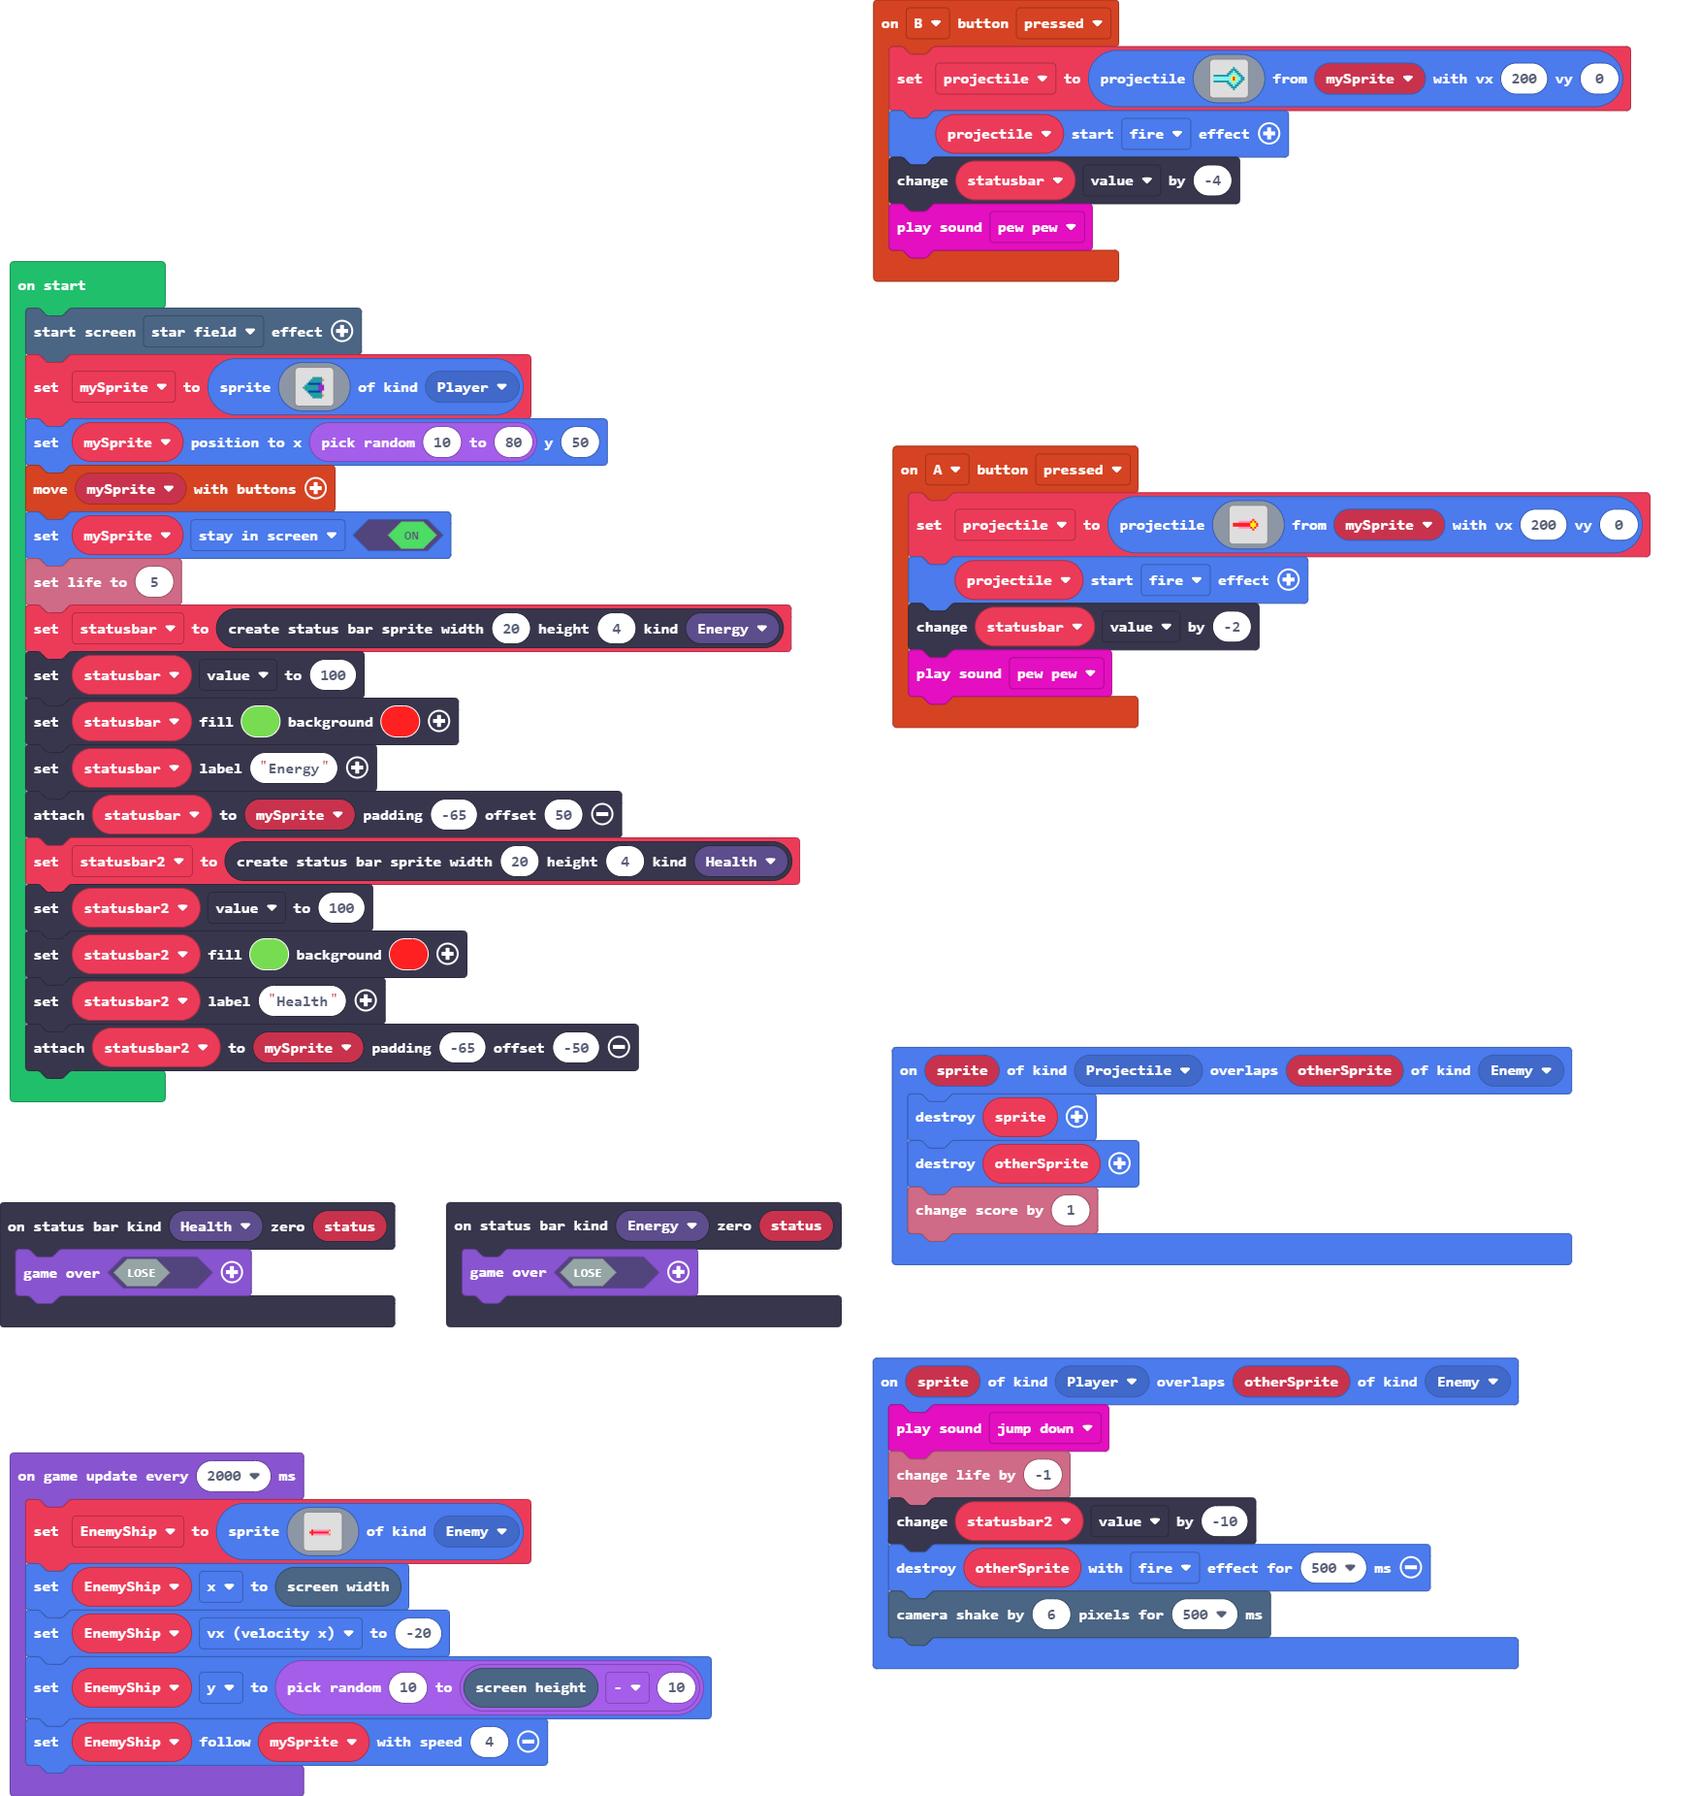
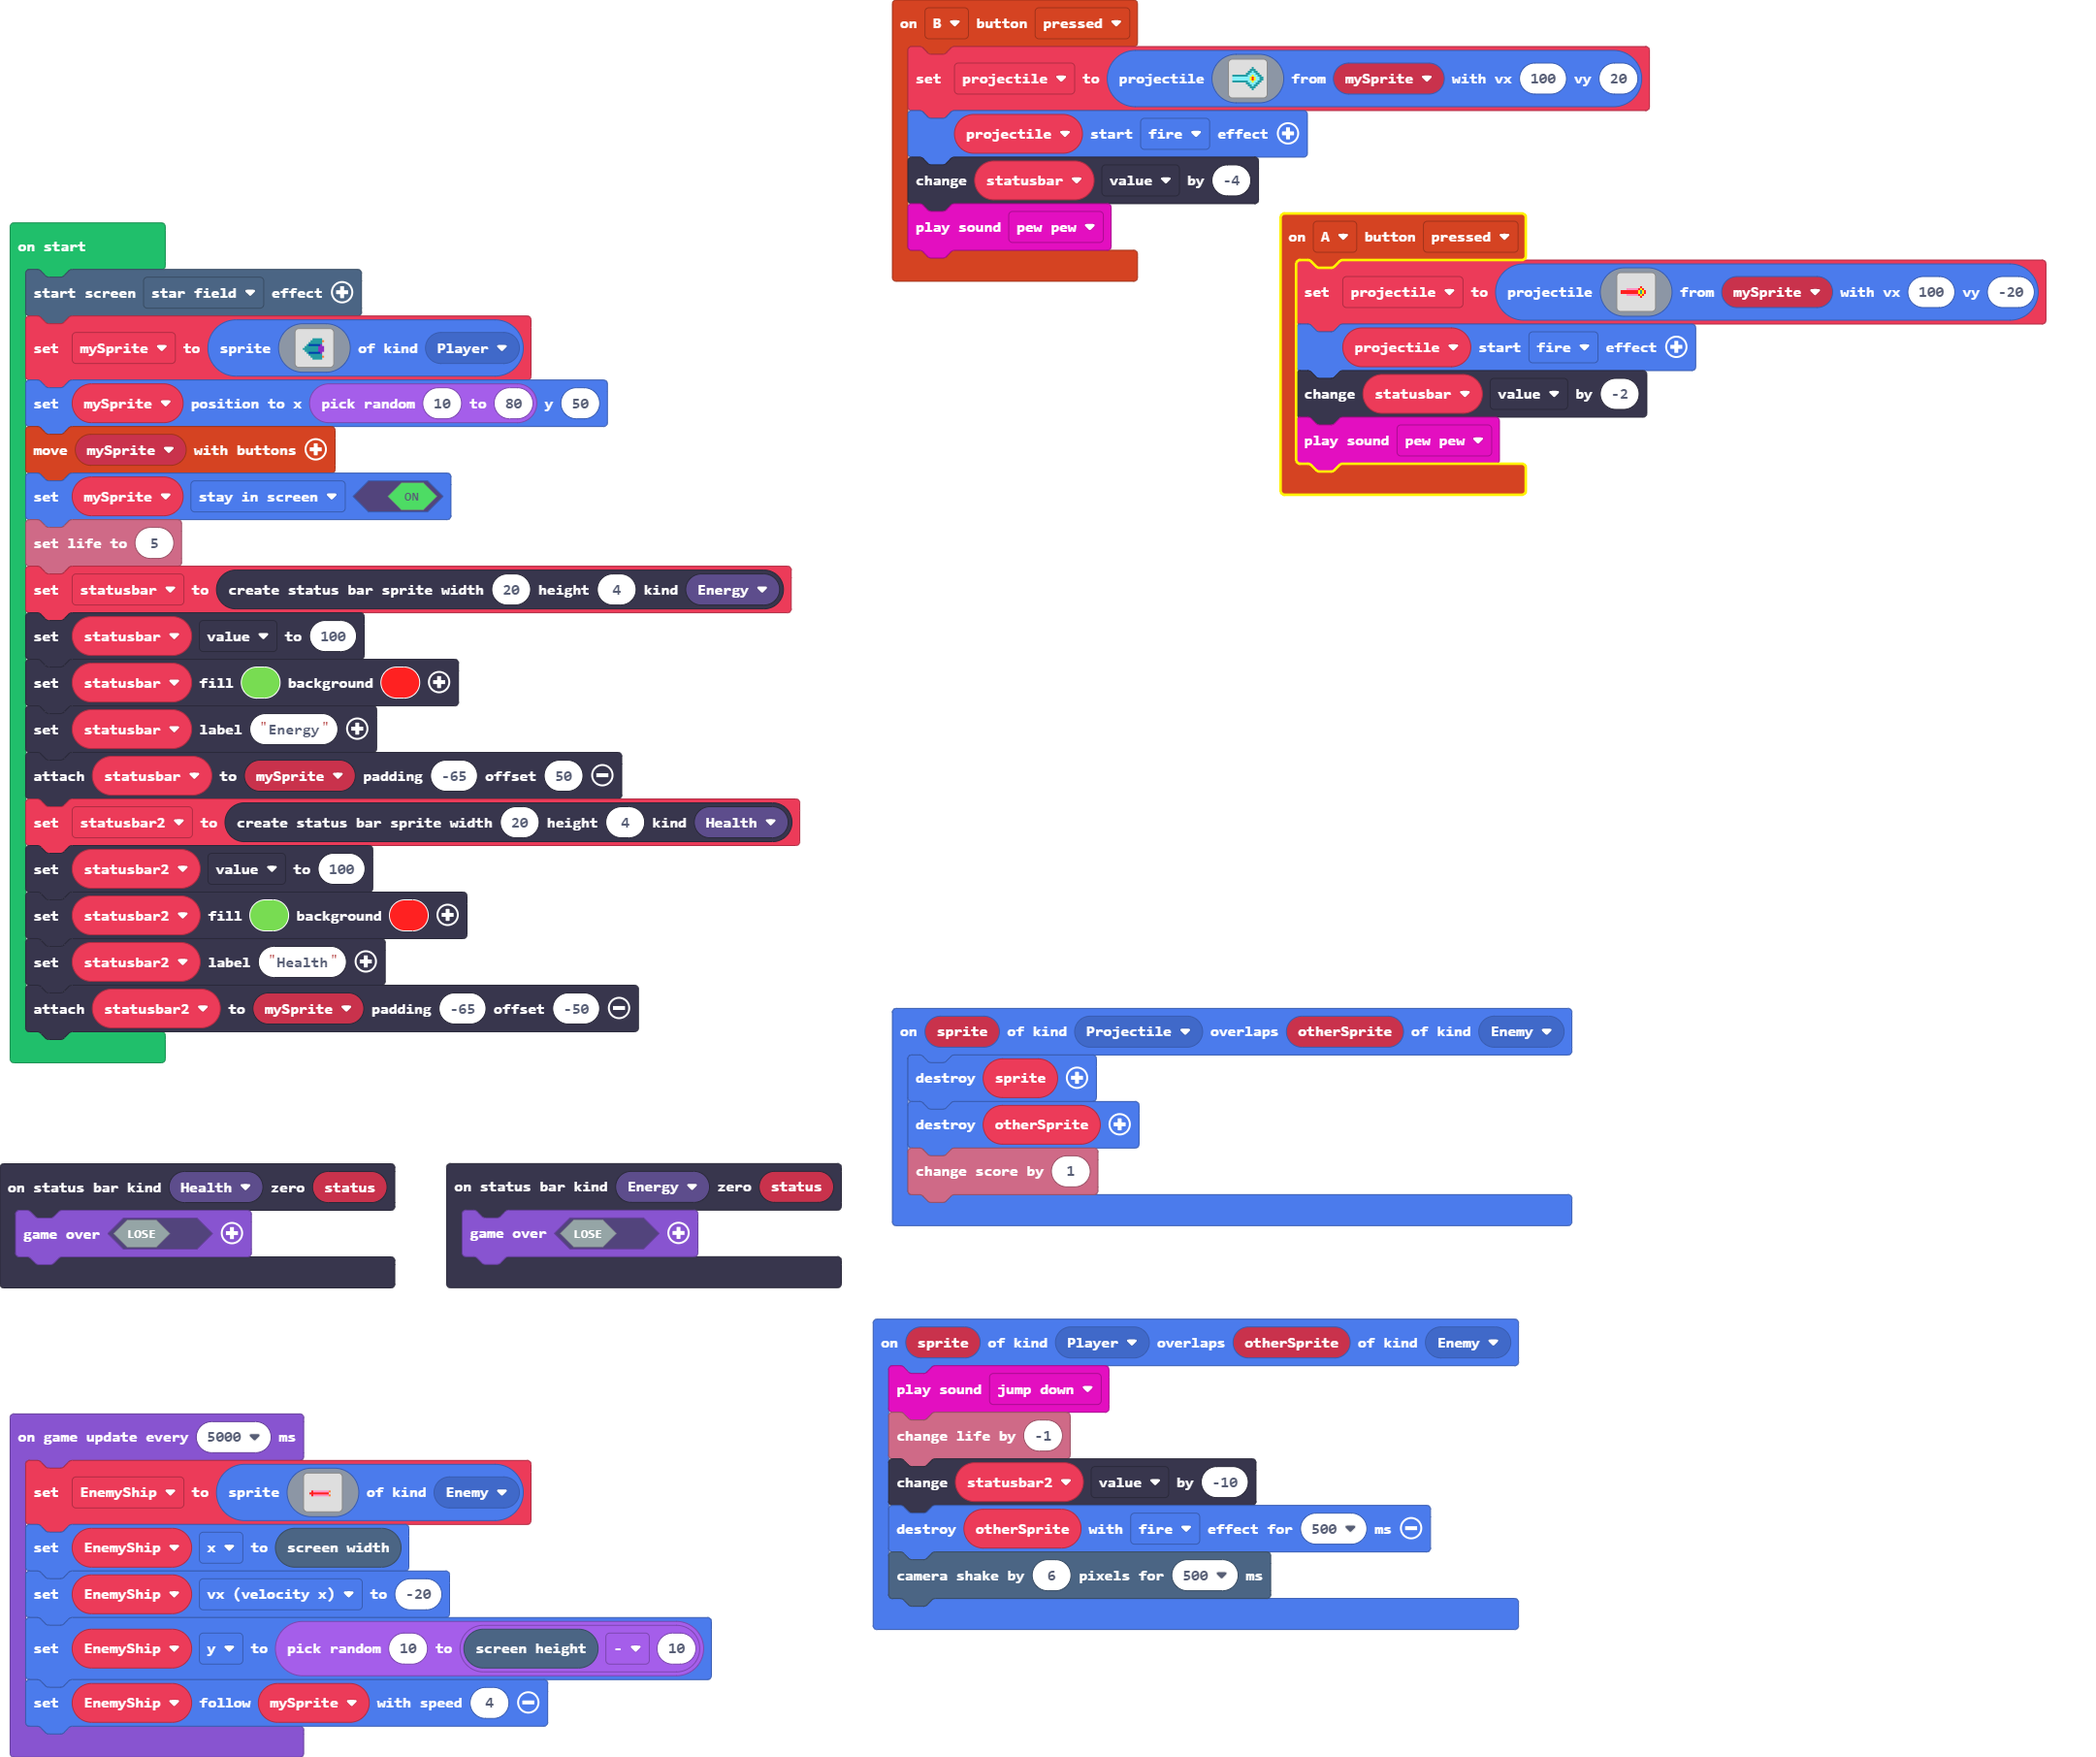
Update main.blocks, main.ts

diff --git a/main.ts b/main.ts
@@ -16,7 +16,7 @@ controller.B.onEvent(ControllerButtonEvent.Pressed, function () {
         . . . . . . . . . . 6 . . . . . 
         . . . . . . . . . . . . . . . . 
         . . . . . . . . . . . . . . . . 
-        `, mySprite, 200, 0)
+        `, mySprite, 100, 20)
     projectile.startEffect(effects.fire)
     statusbar.value += -4
     music.pewPew.play()
@@ -30,8 +30,8 @@ controller.A.onEvent(ControllerButtonEvent.Pressed, function () {
         . . . . . . . . . . . . . . . . 
         . . . . . . . . . . 2 . . . . . 
         . . . 3 3 3 3 3 3 2 5 2 . . . . 
-        2 2 2 2 2 2 2 2 2 5 5 5 2 . . . 
-        2 2 2 2 2 2 2 2 2 5 5 5 2 . . . 
+        2 2 2 2 2 2 2 2 2 5 6 5 2 . . . 
+        2 2 2 2 2 2 2 2 2 5 6 5 2 . . . 
         . . . 3 3 3 3 3 3 2 5 2 . . . . 
         . . . . . . . . . . 2 . . . . . 
         . . . . . . . . . . . . . . . . 
@@ -39,7 +39,7 @@ controller.A.onEvent(ControllerButtonEvent.Pressed, function () {
         . . . . . . . . . . . . . . . . 
         . . . . . . . . . . . . . . . . 
         . . . . . . . . . . . . . . . . 
-        `, mySprite, 200, 0)
+        `, mySprite, 100, -20)
     projectile.startEffect(effects.fire)
     statusbar.value += -2
     music.pewPew.play()
@@ -100,7 +100,7 @@ statusbar2.value = 100
 statusbar2.setColor(7, 2)
 statusbar2.setLabel("Health")
 statusbar2.attachToSprite(mySprite, -65, -50)
-game.onUpdateInterval(2000, function () {
+game.onUpdateInterval(5000, function () {
     EnemyShip = sprites.create(img`
         . . . . . . . . . . . . . . . . 
         . . . . . . . . . . . . . . . . 
